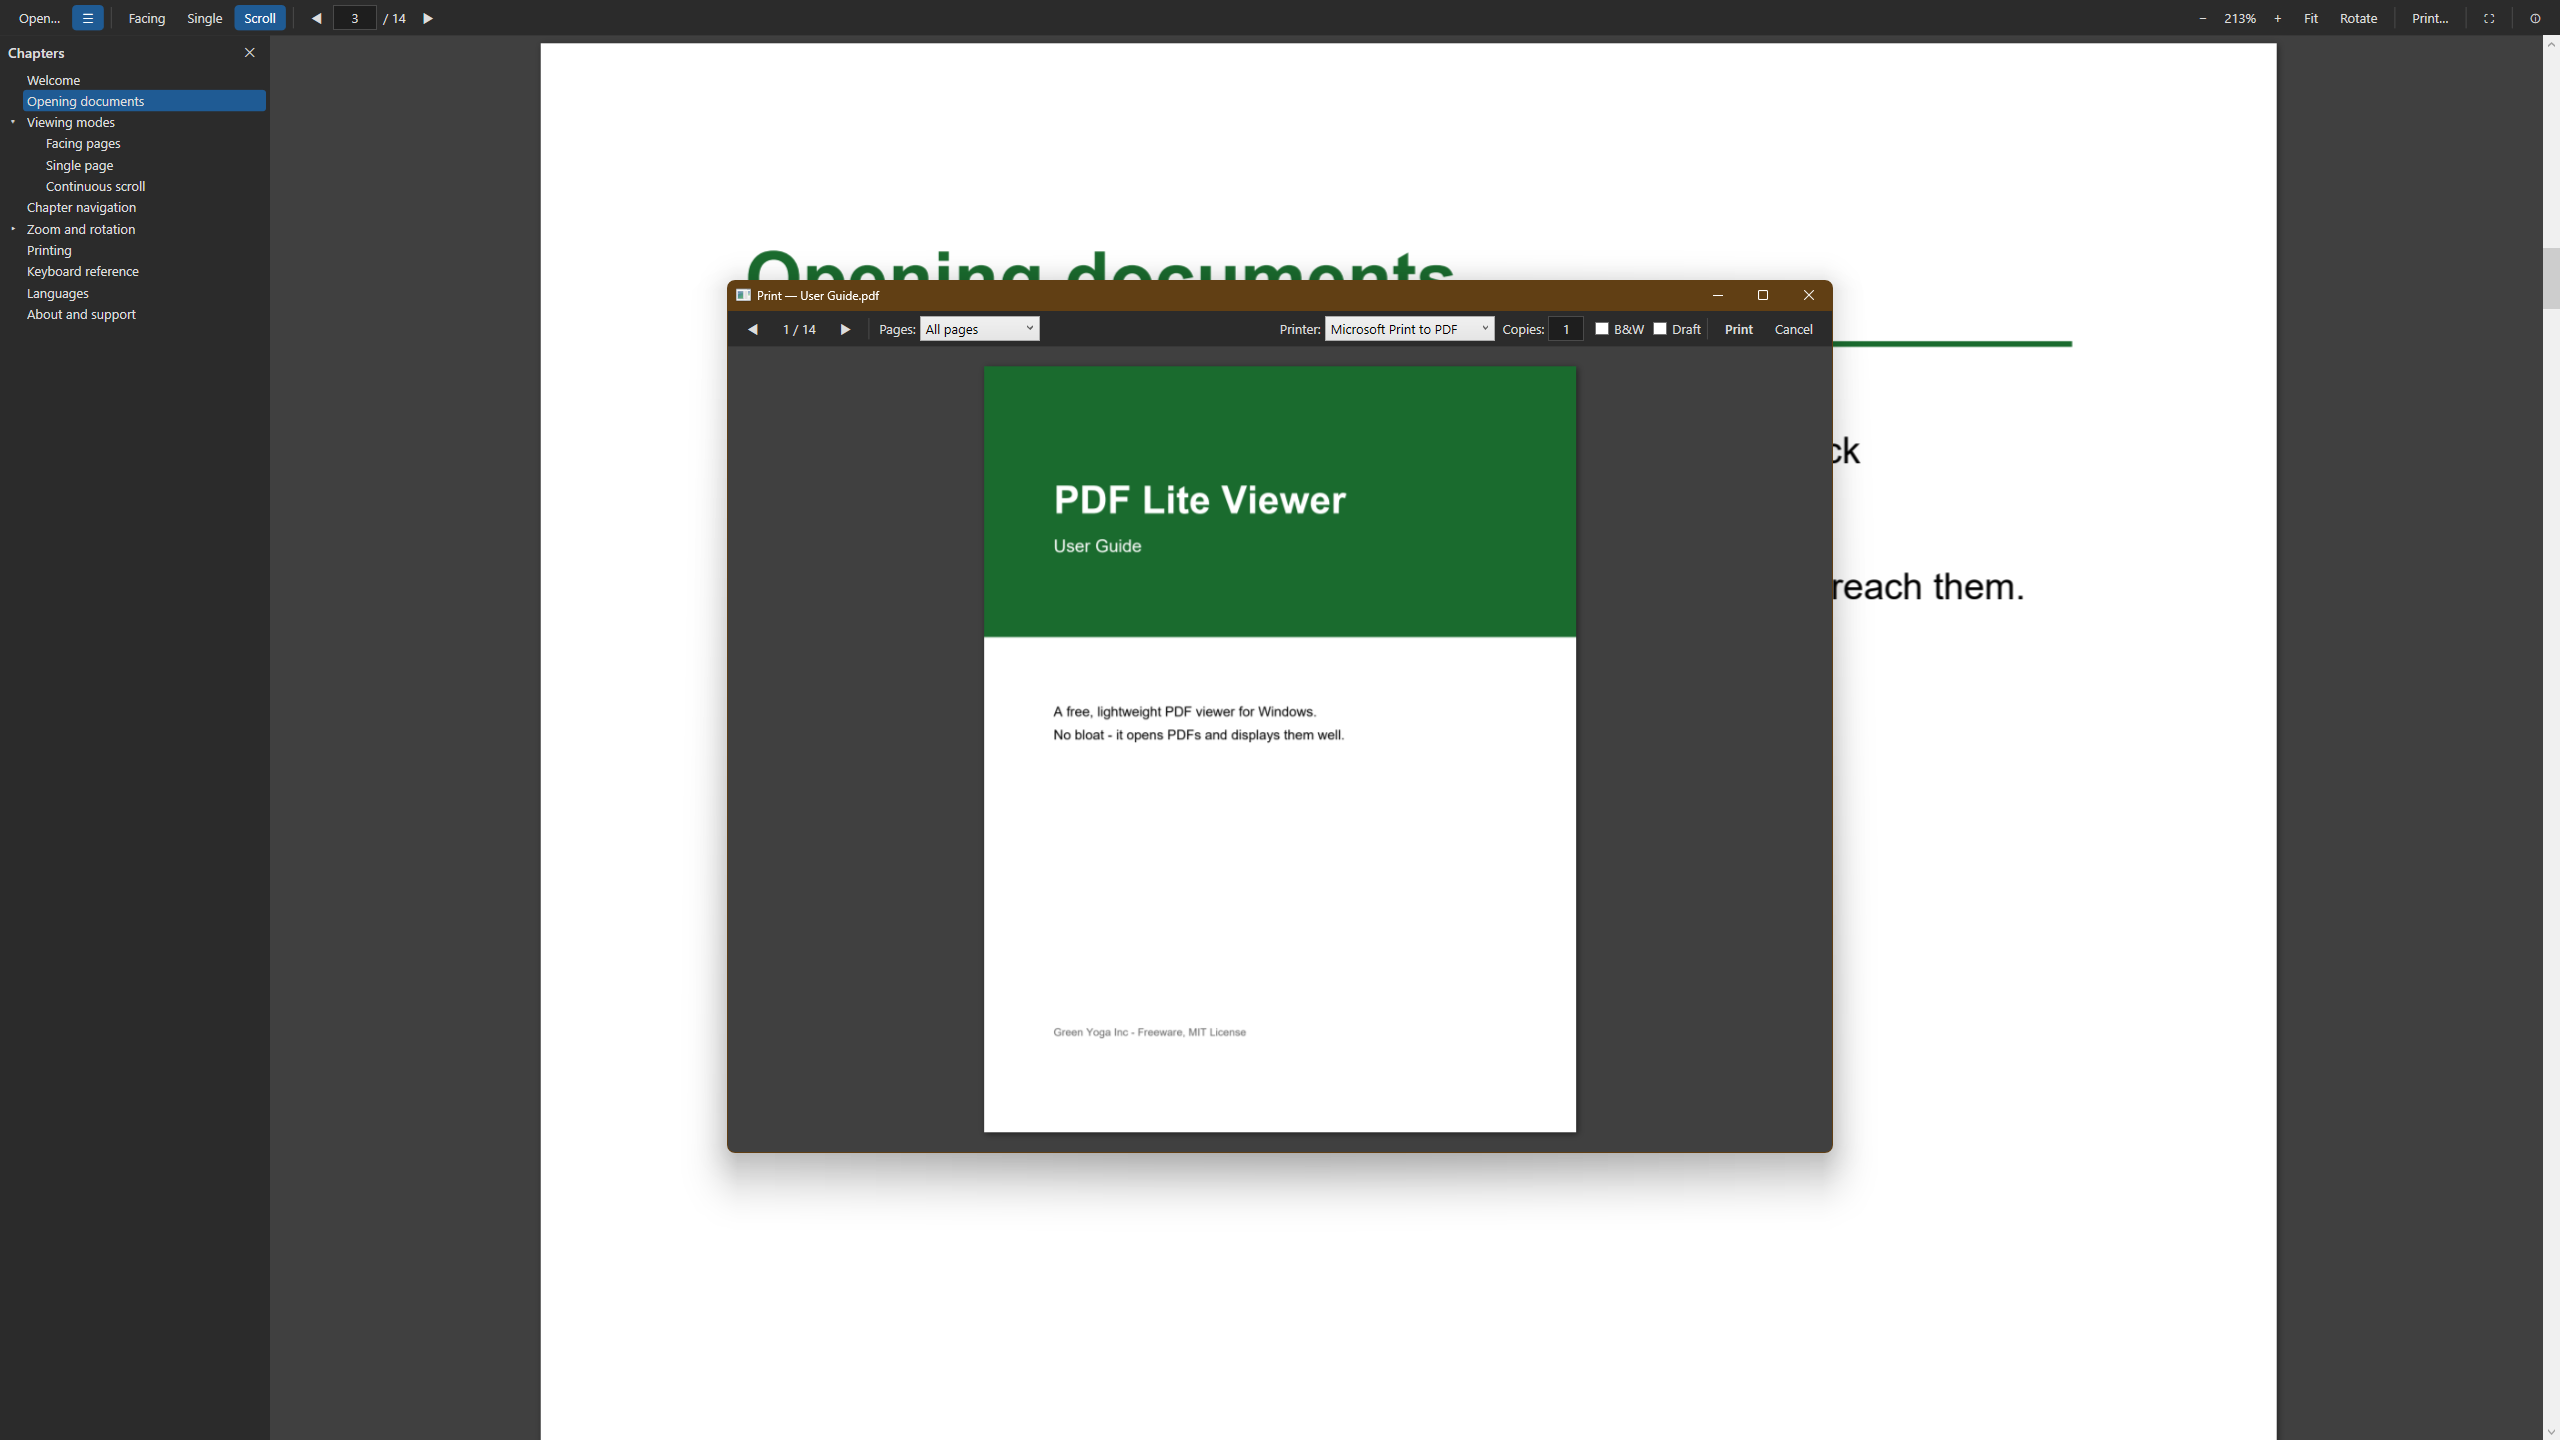
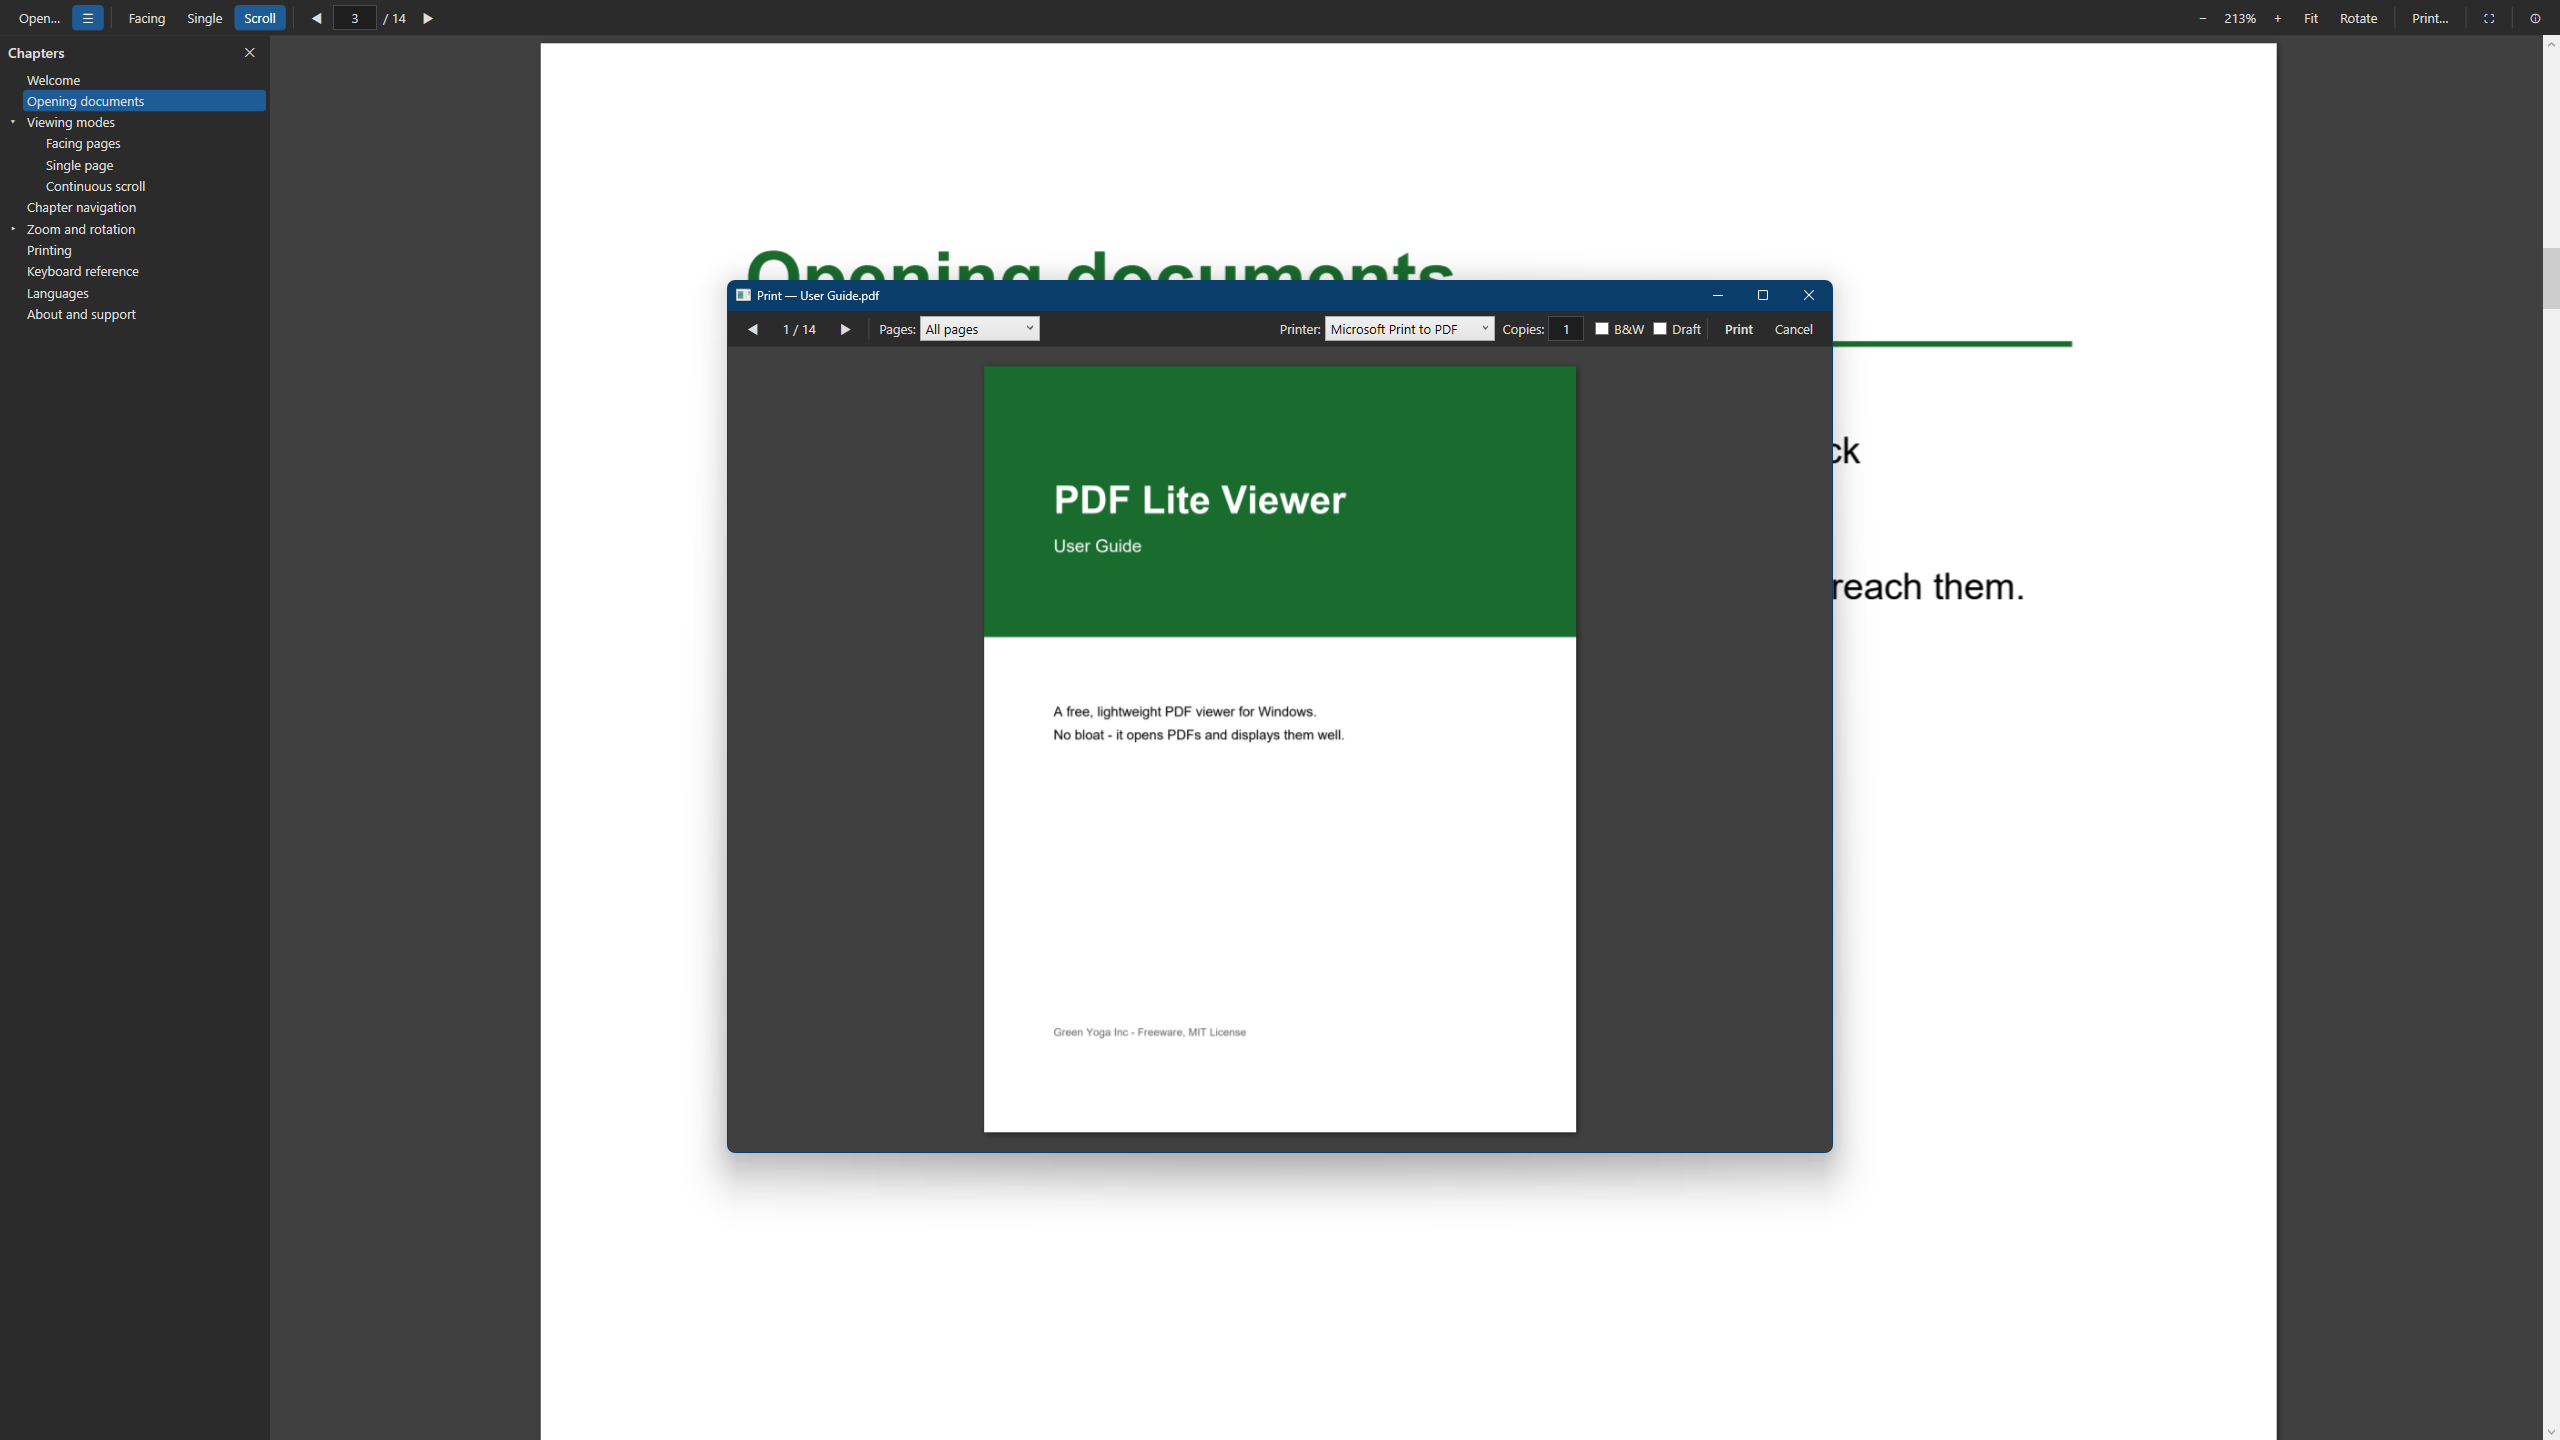
Bump to 1.0.16 and refresh the Store screenshot set
Version 1.0.16 in the csproj (the one authoritative version) and 1.0.16.0 in
Package.appxmanifest, with the 1.0.16 entry in the README "What's new" section
in this same commit, as CLAUDE.md requires. The Store screenshots are
regenerated from the 1.0.16 Release build by tools/StoreShots; six of nine
captures are byte-identical to the 1.0.15 set (deterministic demo document),
the About, support-form and print-preview scenes changed.

Gates at this commit: Release build 0 warnings, ChapterSmoke 6/6, HangProbe 52
checks, StoreShots 9/9.

Changed region(s): [[0.2812, 0.1875, 0.7188, 0.2188]]

diff --git a/README.md b/README.md
@@ -50,6 +50,15 @@ applies to it. Nothing is loaded until you ask.
 
 ## What's new
 
+- **1.0.16** (2026-09-03) — Fixes from a full codebase review: print jobs keep the rotation
+  they were started with (rotating the view while a job spooled could rotate the remaining
+  sheets); a PDF with no pages is refused with a clear message instead of leaving the viewer
+  in a broken state; jumping to the other page of the visible spread no longer flashes; Cancel
+  and Escape are disabled while a print job spools; a PDF that moved before Explorer opened it
+  is reported instead of silently ignored; pages re-render when the window moves to a monitor
+  with a different scale; printer handles are released after use. Release tooling verifies
+  the winget hashes, ships well-formed test fixtures, and gains regression checks (52 in
+  HangProbe). Full report in `docs/code-review/`.
 - **1.0.15** (2026-08-26) — About & support window (`F1`) with version, MIT license
   text and a consent-gated embedded support form; the print preview no longer shows a
   stale page after fast page turns; off-screen page eviction no longer scales with
